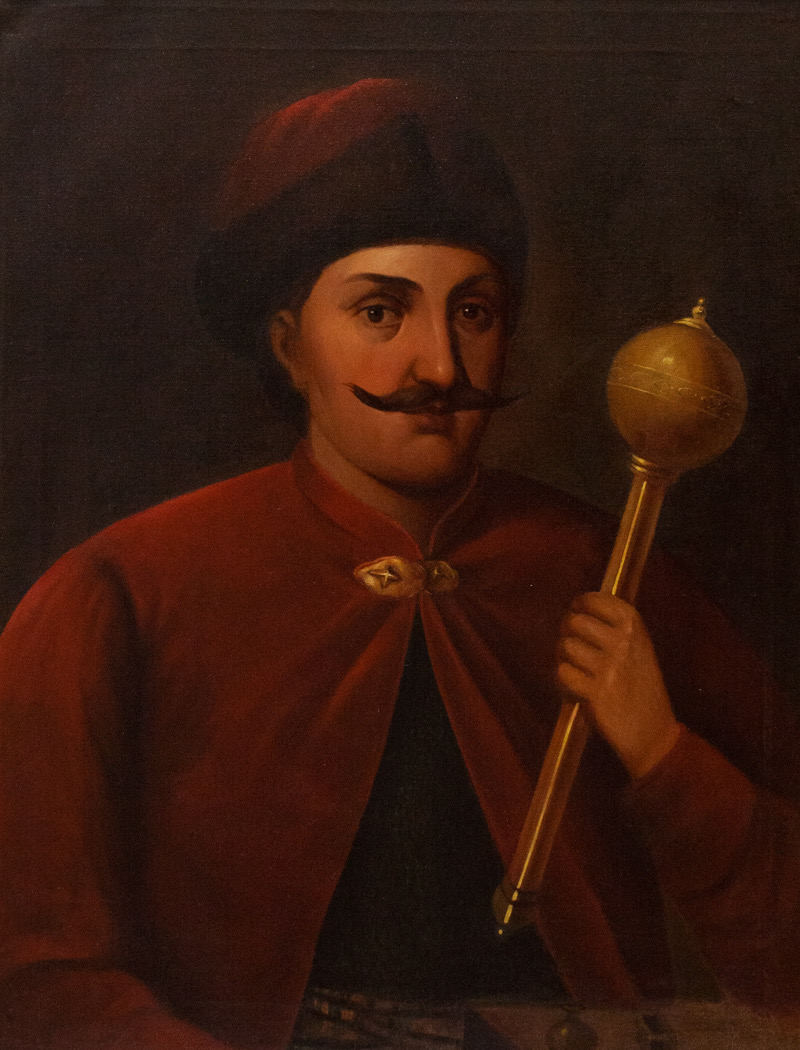
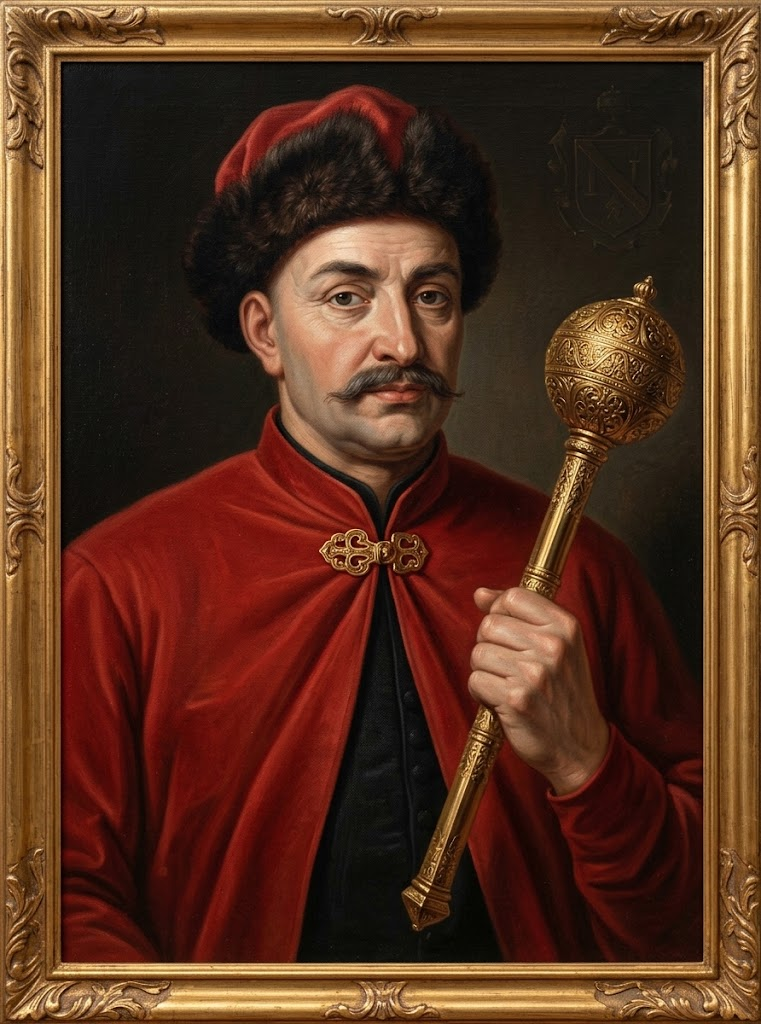
approve few more profiles

diff --git a/src/content/people/uk/ivan-fedorov.md b/src/content/people/uk/ivan-fedorov.md
@@ -20,11 +20,11 @@ places:
   - { name: "Острог", lat: 50.329, lon: 26.513, note: "Острозька друкарня; Острозька Біблія, 1581" }
 image:
   src: ./images/ivan-fedorov.jpg
-  alt: "Остання сторінка львівського «Апостола» 1574 року: герб Львова, друкарський знак Івана Федорова і підпис «Іоанн Федорович, друкар москвитин»"
-  position: "50% 50%"
-  author: "Іван Федоров (друкарня у Львові, 1574)"
-  license: "Public domain"
-  source_url: "https://commons.wikimedia.org/wiki/File:Autograph_of_Ivan_Fyodorov_(1574).jpg"
+  alt: "Рисований портрет Івана Федорова: сивобородий друкар у жупані тримає відбитий аркуш, поруч книжки, угорі його друкарський знак"
+  author: "Невідомий автор"
+  license: "Fair use"
+  source_url: "https://libr.rv.ua/sections/items/11275"
+  fair_use: true
 key_accomplishments:
   - "Разом із Петром Мстиславцем видав у Москві перші друковані книжки (1564–1565)"
   - "Львівський «Апостол» (1574) - найдавніша відома книжка, надрукована в Україні"
@@ -39,7 +39,8 @@ sources:
   - title: Вікіпедія - Іван Федоров
     url: https://uk.wikipedia.org/wiki/Іван_Федоров
 related: []
-status: draft
+status: approved
+published: 2026-10-12T23:34:13Z
 ---
 
 ## Чому друкар утік із Москви?

diff --git a/src/content/people/uk/ivan-vyhovskyi.md b/src/content/people/uk/ivan-vyhovskyi.md
@@ -17,10 +17,12 @@ places:
   - { name: "Гадяч", lat: 50.367, lon: 34.0, note: "Гадяцький договір, 1658" }
 image:
   src: ./images/ivan-vyhovskyi.jpg
-  alt: "Портрет Івана Виговського з булавою, XIX ст. (Гаврило Васько за мініатюрою з літопису Самійла Величка)"
-  author: "Гаврило Васько"
-  license: "Public domain"
-  source_url: "https://commons.wikimedia.org/wiki/File:Ivan_Vyhovsky_(Portrait,_19th_century,_after_restoration).jpg"
+  alt: "Портрет Івана Виговського з булавою в червоному жупані й хутряній шапці, повністю згенерований ШІ"
+  author: "Невідомий автор"
+  license: "Fair use"
+  ai_edit: rendered
+  source_url: "https://libr.rv.ua/sections/items/11275"
+  fair_use: true
 key_accomplishments:
   - "Генеральний писар Війська Запорозького за Богдана Хмельницького (з 1649–1650)"
   - "Гетьман Війська Запорозького (1657–1659)"
@@ -34,7 +36,8 @@ sources:
   - title: Вікіпедія - Іван Виговський
     url: https://uk.wikipedia.org/wiki/Іван_Виговський
 related: [bohdan-khmelnytskyi, ivan-bohun, ivan-sirko, mykola-kostomarov]
-status: draft
+status: approved
+published: 2026-10-12T23:34:13Z
 ---
 
 ## Полонений, який став писарем

diff --git a/src/content/people/uk/illia-riepin.md b/src/content/people/uk/illia-riepin.md
@@ -21,6 +21,14 @@ image:
   license: "Public domain"
   ai_edit: rendered
   source_url: "https://commons.wikimedia.org/wiki/File:RepinSelfPortrait.jpg"
+gallery:
+  - src: ./images/illia-riepin-zaporozhtsi.jpg
+    alt: "Гурт запорожців довкола столу: писар пише листа, козаки навколо регочуть, один сидить спиною з голим торсом"
+    caption: "«Запорожці пишуть листа турецькому султанові» (1880–1891)"
+    section: 1
+    author: "Ілля Рєпін"
+    license: "Public domain"
+    source_url: "https://commons.wikimedia.org/wiki/File:Repin_Cossacks.jpg"
 key_accomplishments:
   - "Картина «Запорожці пишуть листа турецькому султанові» (1880–1891)"
   - "«Бурлаки на Волзі» (1873), «Вечорниці» (1881), «Гайдамаки», «Чорноморська вольниця» (1908) та інші полотна"

diff --git a/src/content/people/en/illia-riepin.md b/src/content/people/en/illia-riepin.md
@@ -12,6 +12,9 @@ key_accomplishments:
   - "Illustrations for Nikolai Gogol’s Taras Bulba (1872) and for Dmytro Yavornytskyi’s book on the Zaporozhian Cossacks (1888)"
 birthplace_name: "Chuhuiv"
 image_alt: "Ilya Repin’s self-portrait (1887), turned into a photo-like image with AI"
+gallery:
+  - alt: "A crowd of Zaporozhian Cossacks around a table: a scribe writes the letter while the Cossacks laugh, one sits bare-backed facing away"
+    caption: "Reply of the Zaporozhian Cossacks (1880–1891)"
 quotes:
   - text: "No one in the whole world felt freedom, equality and brotherhood so deeply. All its life the Zaporozhian Sich remained free and submitted to nothing!"
     source: "Letter to Vladimir Stasov, 1880"

diff --git a/src/content/people/en/ivan-fedorov.md b/src/content/people/en/ivan-fedorov.md
@@ -11,7 +11,7 @@ key_accomplishments:
   - "Founded the press in Ostroh, which published the Azbuka (1578), the New Testament (1580) and the Ostroh Bible (1581)"
   - "His press passed to the Lviv Dormition Brotherhood and served it for a long time"
 birthplace_name: "Unknown"
-image_alt: "Last page of the 1574 Lviv Apostol: the coat of arms of Lviv, Ivan Fedorov’s printer’s mark and the signature “Ioann Fedorovych, the Muscovite printer”"
+image_alt: "Drawn portrait of Ivan Fedorov: a grey-bearded printer in a zhupan holds a printed sheet, books beside him, his printer’s mark above"
 ---
 
 ## Why did a printer flee Moscow?

diff --git a/src/content/people/en/ivan-vyhovskyi.md b/src/content/people/en/ivan-vyhovskyi.md
@@ -10,7 +10,7 @@ key_accomplishments:
   - "The Treaty of Hadiach with the Polish-Lithuanian Commonwealth (1658)"
   - "Victory over the Muscovite army at Konotop (1659)"
 birthplace_name: "Unknown"
-image_alt: "Portrait of Ivan Vyhovskyi holding a mace, 19th century (Havrylo Vasko, after a miniature in Samiilo Velychko’s chronicle)"
+image_alt: "Portrait of Ivan Vyhovskyi holding a mace, in a red zhupan and fur hat, fully generated with AI"
 ---
 
 ## The prisoner who became chancellor

diff --git a/src/content/people/en/petro-doroshenko.md b/src/content/people/en/petro-doroshenko.md
@@ -10,7 +10,7 @@ key_accomplishments:
   - "Victories over Polish armies at Brailiv (1666) and Batih (1672)"
   - "Alliance with the Ottoman Empire, approved by a Cossack council in Korsun (1669)"
 birthplace_name: "Chyhyryn"
-image_alt: "Portrait of Petro Doroshenko holding a mace, 19th century"
+image_alt: "Portrait of Petro Doroshenko holding a mace, in a plumed hat and brocade zhupan, enhanced with AI"
 ---
 
 ## A country cut in two
